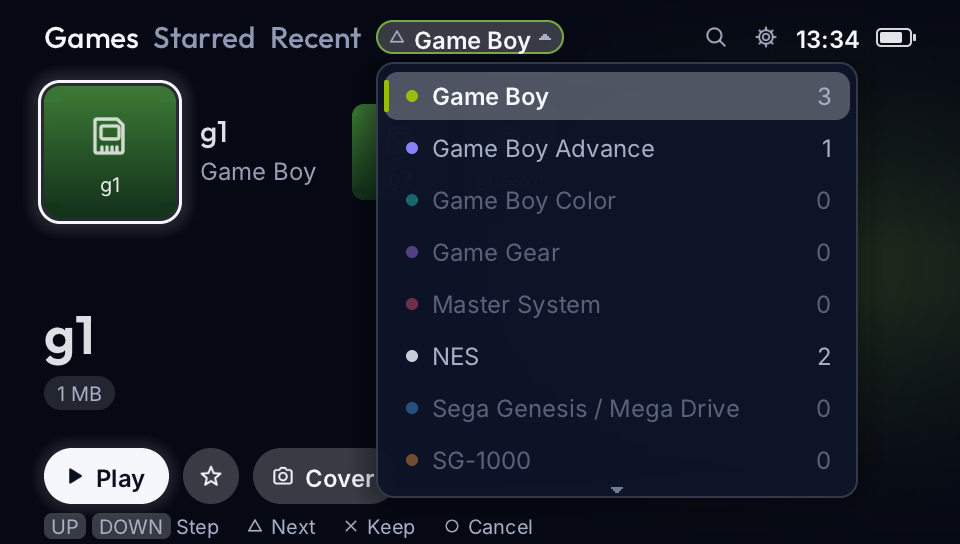
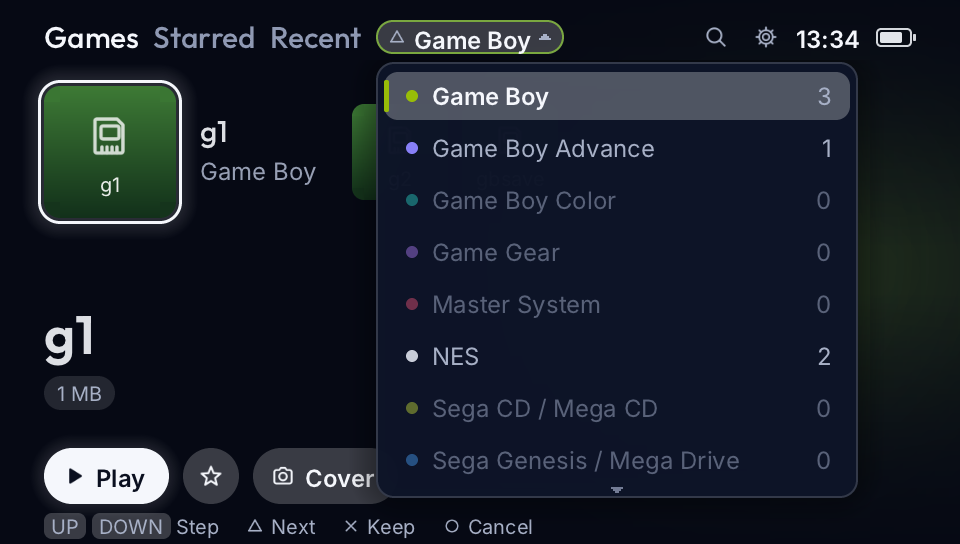
macOS twin builds on a real Mac: Xcode SDK files skipped in the TLS input check, stddef.h for size_t, weak recompiler symbols allowed undefined; GB unit test stubs for Quick response

diff --git a/gpsp/vita/hostcore/app_tests.py b/gpsp/vita/hostcore/app_tests.py
@@ -1107,6 +1107,10 @@ def t_game_look(S):
             "turned off: the console's fit is back")
     S.check(re.search(r"^override = 0$", gini(r), re.M),
             "the file says so")
+    wide_rom = os.path.join(HERE, "testrom", "gbadhoc-wide.gba")
+    if not os.path.exists(wide_rom):
+        S.note("no testrom/gbadhoc-wide.gba (make -C testrom wide): the other-game part is skipped")
+        return
     r = S.run("game_look_other", "100:quit\n", autoboot="gbadhoc-wide.gba",
               config=cfg, extra={
                   "roms/gbadhoc-wide.gba": open(os.path.join(HERE, "testrom",
@@ -2905,10 +2909,10 @@ PICKER_PATH_ROWS = (336, 400)
 
 
 # The picker lists the consoles ALPHABETICALLY by the name its rows show (ui_vita_home.h hm_con_at):
-# Game Boy, Game Boy Advance, Game Boy Color, Game Gear, Master System, NES, Sega Genesis / Mega Drive,
-# SG-1000, Super Nintendo, WonderSwan.  fe_console_t of each row (GBA 0, GB 1, GBC 2, SNES 3, NES 4, WS 5,
-# MD 6, SMS 7, GG 8, SG 9):
-PICK_ORDER = [1, 0, 2, 8, 7, 4, 6, 9, 3, 5]
+# Game Boy, Game Boy Advance, Game Boy Color, Game Gear, Master System, NES,
+# Sega CD, Sega Genesis / Mega Drive, SG-1000, Super Nintendo, WonderSwan.  fe_console_t of each row (GBA 0,
+# GB 1, GBC 2, SNES 3, NES 4, WS 5, MD 6, SMS 7, GG 8, SG 9, Sega CD 10):
+PICK_ORDER = [1, 0, 2, 8, 7, 4, 10, 6, 9, 3, 5]
 
 
 def pick_row(console):
@@ -2982,9 +2986,9 @@ def t_picker(S):
     S.check(ink(b, 2) < ink(b, 5) - 60 and ink(b, 2) > 3 * 0 + 150,
             "GBC (0 games) is dimmed but readable, NES (2 games) is not (%d, %d)" % (ink(b, 2), ink(b, 5)))
     # N presses move N rows, wrapping; the library follows each
-    r = picker_run(S, "picker_steps", "90:triangle\n" + "+6:triangle\n" * 12 + "+260:shot=rest.png\n+10:quit\n")
-    S.check(picker_moves(r) == [2, 3, 4, 5, 6, 7, 8, 9, 0, 1, 2, 3],
-            "twelve presses after opening move 2..9, 0..3 (wrap): %s" % picker_moves(r))
+    r = picker_run(S, "picker_steps", "90:triangle\n" + "+6:triangle\n" * 13 + "+260:shot=rest.png\n+10:quit\n")
+    S.check(picker_moves(r) == [2, 3, 4, 5, 6, 7, 8, 9, 10, 0, 1, 2, 3],
+            "thirteen presses after opening move 2..10, 0..3 (wrap): %s" % picker_moves(r))
     cons = [int(d["console"]) for d in r.evt("ui_browser_console")]
     S.check(cons == [PICK_ORDER[i] for i in picker_moves(r)] and cons[:3] == [2, 8, 7],
             "the library is switched live at every step (%s)" % cons)
@@ -3035,9 +3039,9 @@ def t_picker(S):
     x, y = PICKER_PILL
     r = picker_run(S, "picker_touch", "90:touch=%d/%d\n+40:shot=t_open.png\n+4:touch=450/%d\n+40:shot=t_snes.png\n"
                    "+4:touch=%d/%d\n+40:touch=450/%d\n+40:touch=%d/%d\n+40:touch=800/528\n+40:quit\n" %
-                   (x, y, picker_row_y(6), x, y, picker_row_y(3), x, y))   # (opened on row 6 the list is scrolled two rows)
+                   (x, y, picker_row_y(7), x, y, picker_row_y(2), x, y))   # (opened on row 7 the list is scrolled three rows)
     ev = [e["_"].replace("EVT ui_picker ", "") for e in r.evt("ui_picker")]
-    S.check(ev[:3] == ["open console=0", "move row=6 console=6", "close console=6 idle=0"],
+    S.check(ev[:3] == ["open console=0", "move row=7 console=6", "close console=6 idle=0"],
             "a tap on the pill opens it; a tap on the Genesis row switches and closes (%s)" % ev)
     S.check([int(d["console"]) for d in r.evt("ui_browser_console")] == [6, 4],
             "the second tap on a row switched again (%s)" % [d["_"] for d in r.evt("ui_browser_console")])
@@ -3051,14 +3055,14 @@ def t_picker(S):
     r = picker_run(S, "picker_drag", "90:touch=%d/%d\n+120:drag=450/%d/450/%d:20\n+30:shot=t_drag.png\n"
                    "+4:touch=450/%d\n+40:quit\n" % (x, y, picker_row_y(6), picker_row_y(2), picker_row_y(7)))
     ev = [e["_"].replace("EVT ui_picker ", "") for e in r.evt("ui_picker")]
-    S.check(ev == ["open console=0", "move row=9 console=5", "close console=5 idle=0"],
+    S.check(ev == ["open console=0", "move row=10 console=5", "close console=5 idle=0"],
             "a list opened by touch stays open, a drag scrolls it without picking, a tap on the last row "
             "(WonderSwan) picks it (%s)" % ev)
     S.picture(r, "t_drag.png")
-    # ten consoles are the real list now; the host twin can repeat the table
-    # (GBADHOC_PICKER_ROWS=4: fourteen rows) to show a longer list -- it holds
+    # eleven consoles are the real list now; the host twin can repeat the table
+    # (GBADHOC_PICKER_ROWS=3: fourteen rows) to show a longer list -- it holds
     # eight rows, scrolls to keep the highlight in view, never reaches the hint line
-    ten = {"GBADHOC_PICKER_ROWS": "4"}
+    ten = {"GBADHOC_PICKER_ROWS": "3"}
     r = picker_run(S, "picker_ten", "90:triangle\n+20:shot=ten_open.png\n" + "+6:triangle\n" * 12 +
                    "+30:shot=ten_end.png\n+4:touch=450/%d\n+40:shot=ten_tap.png\n+10:quit\n" % picker_row_y(4), env=ten)
     S.check(picker_moves(r) == [2, 3, 4, 5, 6, 7, 8, 9, 10, 11, 12, 13, 10],
@@ -3157,11 +3161,11 @@ def t_find(S):
             len(r.evt("ui_text_open")) == 1 and picked(r, target),
             "Settings and explicit Refresh preserve Find and rebuild it before Starred selection")
 
-    # (ten consoles: the first press opens the picker, ten more go round to the GBA again)
-    r = run("console", "90:circle\n94:type=find-only\n150:triangle\n" + "+50:triangle\n" * 10 +
+    # (eleven consoles: the first press opens the picker, eleven more go round to the GBA again)
+    r = run("console", "90:circle\n94:type=find-only\n150:triangle\n" + "+50:triangle\n" * 11 +
             "+80:cross\n+140:shot=game.png\n+20:quit\n")
     S.check(r.has(r"^EVT browser_find active=0 ") and
-            len(r.evt("ui_browser_console")) == 10 and picked(r, "gbadhoc-test.gba"),
+            len(r.evt("ui_browser_console")) == 11 and picked(r, "gbadhoc-test.gba"),
             "a console change clears Find instead of hiding the remembered game on return")
 
     r = run("touch", "90:touch=715/37\n95:type=find-only-02\n"
@@ -3178,9 +3182,9 @@ def t_library_cache(S):
     """Console tabs reuse complete scans; Refresh library rescans and keeps focus."""
     with open(OWN_GBA, "rb") as cartridge:
         second_game = cartridge.read()
-    # ten console tabs (GBA, GB, GBC, SNES, NES, WS and the four Sega ones): two full turns
-    # (TRIANGLE opens the picker, then 20 more presses; 100 frames of rest close it)
-    script = ("60:triangle\n" + "+60:triangle\n" * 9 + "+70:triangle\n" + "+60:triangle\n" * 9 + "+70:triangle\n"
+    # eleven console tabs (GBA, GB, GBC, SNES, NES, WS, the four Sega ones and Sega CD): two full turns
+    # (TRIANGLE opens the picker, then 22 more presses; 100 frames of rest close it)
+    script = ("60:triangle\n" + "+60:triangle\n" * 10 + "+70:triangle\n" + "+60:triangle\n" * 10 + "+70:triangle\n"
               "+100:right\n+20:start\n" + "+8:down\n" * 19 +
               "+20:shot=quality_setting.png\n" + "+8:up\n" * 15 +
               "+20:shot=refresh_command.png\n+8:cross\n"
@@ -3192,8 +3196,8 @@ def t_library_cache(S):
     scans = r.evt("rom_scan_time")
     sides = r.evt("rom_scan_side")
     S.check(len(scans) == 2 and {d.get("console") for d in scans} == {"0"} and
-            len(sides) == 18 and {d.get("console") for d in sides} == {"1", "2", "3", "4", "5", "6", "7", "8", "9"},
-            "one walk lists all ten consoles; only the explicit refresh walks again "
+            len(sides) == 20 and {d.get("console") for d in sides} == {"1", "2", "3", "4", "5", "6", "7", "8", "9", "10"},
+            "one walk lists all eleven consoles; only the explicit refresh walks again "
             "(scans %s, side lists %s)" % ([d["_"] for d in scans], [d["_"] for d in sides]))
     S.check(len(r.evt("rom_cache_hit")) >= 4, "revisited console tabs use cached lists")
     S.check(r.has(r"library_refresh_asked") and r.has(r"library_refresh_done console=0 roms=2"),
@@ -7035,14 +7039,14 @@ def t_ws_library(S):
         x, w, search = int(pl[-1]["x"]), int(pl[-1]["w"]), int(pl[-1]["search"])
         S.check(x + w <= search, "the pill is whole before the search icon (x %d w %d, search %d)" % (x, w, search))
         px, py = (x + w // 2) * 2, 37
-        # WS is the last row of ten (rows scroll), so DOWN walks to it; a tap on the pill opens it again and a tap on
-        # the first visible row (Game Boy Color once WS is selected) goes there
-        r2 = S.run("ws_touch", "90:touch=%d/%d\n" % (px, py) + "+40:down\n" * 8 + "+40:cross\n+80:shot=ws_tab.png\n"
+        # WS is the last row of eleven (rows scroll), so DOWN walks to it; a tap on the pill opens it again and a tap on
+        # the first visible row (Game Gear once WS is selected) goes there
+        r2 = S.run("ws_touch", "90:touch=%d/%d\n" % (px, py) + "+40:down\n" * 9 + "+40:cross\n+80:shot=ws_tab.png\n"
                    "+10:touch=%d/%d\n+40:touch=450/%d\n+80:shot=gba_tab.png\n+10:quit\n" % (px, py, picker_row_y(0)),
                    cwd=cwd, config={"ui_home": 1})
         S.clean(r2)
         cons = [d["console"] for d in r2.evt("ui_browser_console")]
-        S.check(cons[-2:] == ["5", "2"], "the pill and DOWN reach the WS shelf, a tap on the picker's first row goes back (%s)" % cons)
+        S.check(cons[-2:] == ["5", "8"], "the pill and DOWN reach the WS shelf, a tap on the picker's first row goes back (%s)" % cons)
         S.picture(r2, "ws_tab.png", "ws_home_bar.png")
 
 
@@ -7578,7 +7582,7 @@ def t_save_heal_nes_ws(S):
         stem = name.rsplit(".", 1)[0]
         mine = bytes((i * 5 + 3) & 0xFF for i in range(8192))
         # Export is after Display settings (a NES game's NTSC colours row, and a WonderSwan game's three rows)
-        row = menu_pick(4, wait=60) + set_down(20 if kind == "nes" else 23)
+        row = menu_pick(4, wait=60) + set_down(22 if kind == "nes" else 25)
         r = S.run("heal_" + kind, "30:left:2\n" + row + "+10:cross\n+20:circle\n+10:circle\n+30:quit\n",
                   autoboot=name, extra={"roms/" + name: rom, "roms/%s.srm" % stem: mine},
                   vita_ini={"sync_ra_saves": 0})
@@ -8201,8 +8205,8 @@ def t_nes_library(S):
                os.path.join(cwd, "ux0:ROMS/SNES ROM Collection")]
     before = {d: {n: open(os.path.join(d, n), "rb").read() for n in os.listdir(d)
                   if os.path.isfile(os.path.join(d, n))} for d in folders}
-    # classic UI: GBA -> GB -> GBC -> SNES -> NES -> WS -> MD -> SMS -> GG -> SG -> GBA, then the NES shelf again, pick
-    steps = "90:triangle\n" + "+30:triangle\n" * 9
+    # classic UI: GBA -> GB -> GBC -> SNES -> NES -> WS -> MD -> SMS -> GG -> SG -> Sega CD -> GBA, then the NES shelf again, pick
+    steps = "90:triangle\n" + "+30:triangle\n" * 10
     r = S.run("nes_library", steps + "+30:shot=gba.png\n"
               "+2:triangle\n+30:triangle\n+30:triangle\n+30:triangle\n"
               "+60:shot=nes.png\n+2:cross\n+60:quit\n", cwd=cwd)
@@ -8211,8 +8215,8 @@ def t_nes_library(S):
     order = [c for c, _ in sw if c]
     while order and order[0] == "0" and order[1:2] != ["1"]:
         order.pop(0)                       # (the first listing of the GBA shelf)
-    S.check(order[:14] == ["1", "2", "3", "4", "5", "6", "7", "8", "9", "0", "1", "2", "3", "4"],
-            "TRIANGLE steps GB, GBC, SNES, NES, WS, MD, SMS, GG, SG and back to GBA, then on again (%s)" % sw)
+    S.check(order[:15] == ["1", "2", "3", "4", "5", "6", "7", "8", "9", "10", "0", "1", "2", "3", "4"],
+            "TRIANGLE steps GB, GBC, SNES, NES, WS, MD, SMS, GG, SG, Sega CD and back to GBA, then on again (%s)" % sw)
     nes = [n for c, n in sw if c == "4"]
     snes = [n for c, n in sw if c == "3"]
     S.check(nes and nes[0] == 6,

diff --git a/gpsp/tools/tests/fe_host_absent.c b/gpsp/tools/tests/fe_host_absent.c
@@ -52,6 +52,10 @@ int nescore_state_load(nescore_t *c, const void *s, size_t n) { (void)c; (void)s
 uint32_t nescore_ra_read(nescore_t *c, uint32_t a, uint8_t *o, uint32_t n) { (void)c; (void)a; (void)o; (void)n; NEVER("nescore_ra_read"); return 0; }
 int nescore_cheats_set(nescore_t *c, const char *s) { (void)c; (void)s; NEVER("nescore_cheats_set"); return 0; }
 int nescore_peek(nescore_t *c, unsigned a) { (void)c; (void)a; NEVER("nescore_peek"); return 0; }
+size_t nescore_ahead_size(nescore_t *c) { (void)c; NEVER("nescore_ahead_size"); return 0; }
+long nescore_ahead_save(nescore_t *c, void *d, size_t n) { (void)c; (void)d; (void)n; NEVER("nescore_ahead_save"); return 0; }
+int nescore_ahead_load(nescore_t *c, const void *s, size_t n) { (void)c; (void)s; (void)n; NEVER("nescore_ahead_load"); return 0; }
+void nescore_set_quiet(nescore_t *c, int q) { (void)c; (void)q; NEVER("nescore_set_quiet"); }
 
 /* ---- the WonderSwan, absent ---- */
 wscore_t *wscore_create(const char *rom_path, unsigned rate,
@@ -69,6 +73,10 @@ int wscore_rom_title(wscore_t *c, char *d, size_t n) { (void)c; (void)d; (void)n
 size_t wscore_save_ram_size(wscore_t *c) { (void)c; NEVER("wscore_save_ram_size"); return 0; }
 int wscore_save_ram_read(wscore_t *c, void *d, size_t n) { (void)c; (void)d; (void)n; NEVER("wscore_save_ram_read"); return 0; }
 int wscore_save_ram_write(wscore_t *c, const void *s, size_t n) { (void)c; (void)s; (void)n; NEVER("wscore_save_ram_write"); return 0; }
+size_t wscore_ahead_size(wscore_t *c) { (void)c; NEVER("wscore_ahead_size"); return 0; }
+long wscore_ahead_save(wscore_t *c, void *d, size_t n) { (void)c; (void)d; (void)n; NEVER("wscore_ahead_save"); return 0; }
+int wscore_ahead_load(wscore_t *c, const void *s, size_t n) { (void)c; (void)s; (void)n; NEVER("wscore_ahead_load"); return 0; }
+void wscore_set_quiet(wscore_t *c, int q) { (void)c; (void)q; NEVER("wscore_set_quiet"); }
 int wscore_save_ram_dirty(wscore_t *c) { (void)c; NEVER("wscore_save_ram_dirty"); return 0; }
 size_t wscore_state_size(wscore_t *c) { (void)c; NEVER("wscore_state_size"); return 0; }
 long wscore_state_save(wscore_t *c, void *d, size_t n) { (void)c; (void)d; (void)n; NEVER("wscore_state_save"); return 0; }

diff --git a/tools/online/build-mbedtls.py b/tools/online/build-mbedtls.py
@@ -105,7 +105,7 @@ def sha256(path):
 def reject_symlinks(path):
     for part in (path, *path.parents):
         if part.is_symlink():
-            raise ValueError("Build inputs and outputs must not contain symlinks")
+            raise ValueError("Build inputs and outputs must not contain symlinks: " + str(part) + " (in " + str(path) + ")")
 
 
 def require_no_patches(row):
@@ -204,6 +204,9 @@ def collect_compile_inputs(source, prefix):
             raise ValueError("TLS object does not name its expected source input")
         for name in dependencies:
             path = Path(name)
+            # macOS: clang's depfiles also name the SDK's SDKSettings.json, which lives behind Xcode's own symlinks: the toolchain, not an input of ours
+            if sys.platform == "darwin" and name.startswith(("/Applications/Xcode", "/Library/Developer/CommandLineTools")):
+                continue
             reject_symlinks(path)
             for label, base in (("source", source), ("prefix", prefix)):
                 try:

diff --git a/gpsp/vita/vback_soft_prog.cpp b/gpsp/vita/vback_soft_prog.cpp
@@ -11,6 +11,7 @@
  */
 #include <math.h>
 #include <stdint.h>
+#include <stddef.h>
 
 namespace vbsp {
 
